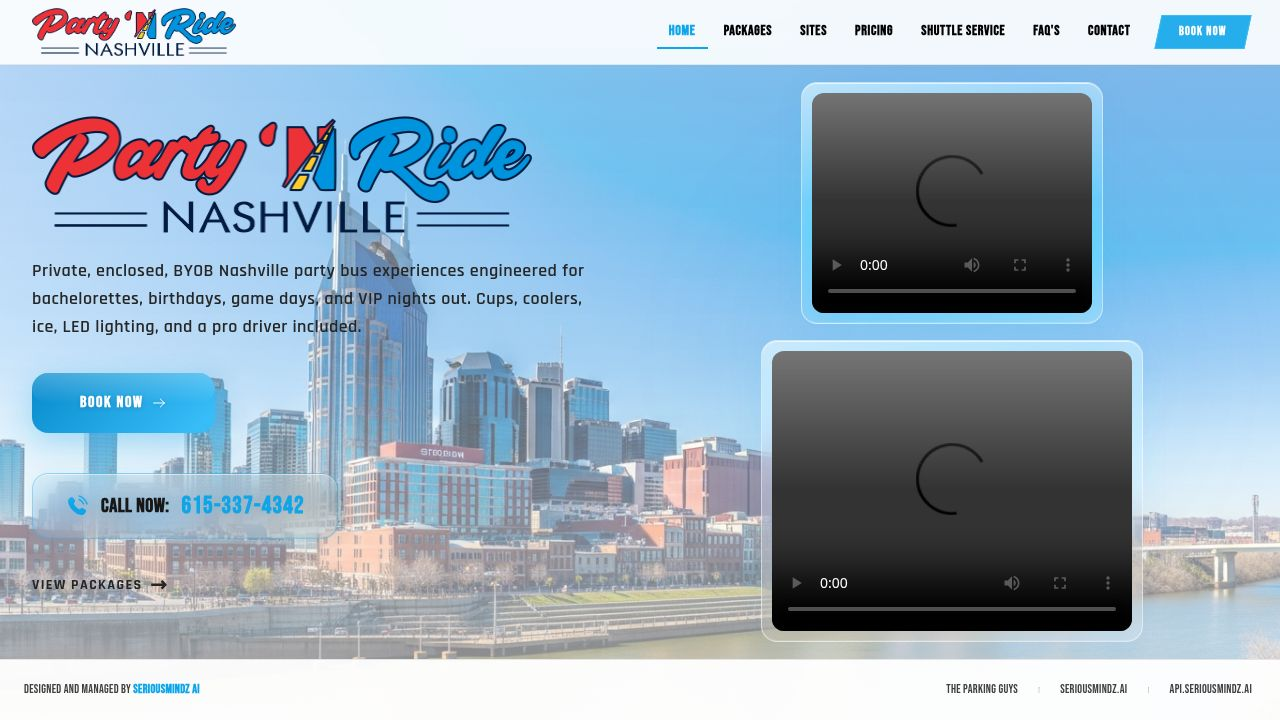
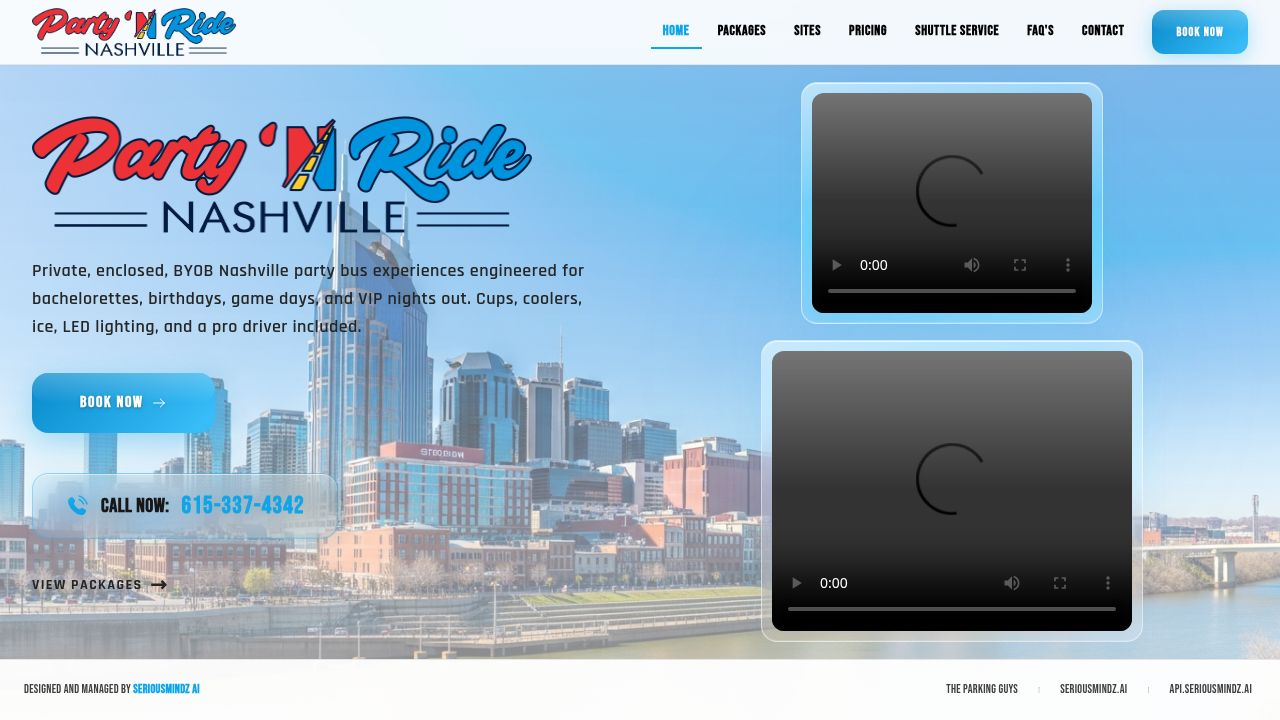
Enhance website appearance and optimize for search engines and security
Update HTML meta tags for SEO and security headers, add favicon and branding assets, and configure web manifest.

Replit-Commit-Author: Agent
Replit-Commit-Session-Id: 6c96416f-484b-418a-9b94-ff6707df3eed
Replit-Commit-Checkpoint-Type: full_checkpoint
Replit-Commit-Event-Id: efce67ea-f072-4c3e-bd1e-bd8a57e3cdf7
Replit-Commit-Screenshot-Url: https://storage.googleapis.com/screenshot-production-us-central1/6aab7b05-7e1a-461f-ac42-8b084cade9d4/6c96416f-484b-418a-9b94-ff6707df3eed/LCbP8MV
Replit-Helium-Checkpoint-Created: true

Changed region(s): [[0.5, 0.0, 1.0, 0.0917]]

diff --git a/client/index.html b/client/index.html
@@ -3,56 +3,94 @@
   <head>
     <meta charset="UTF-8" />
     <meta name="viewport" content="width=device-width, initial-scale=1.0, maximum-scale=5, user-scalable=yes" />
+    <meta http-equiv="X-UA-Compatible" content="IE=edge" />
+    <meta http-equiv="Content-Type" content="text/html; charset=utf-8" />
     <meta name="theme-color" content="#0EA5E9" />
+    <meta name="msapplication-TileColor" content="#0EA5E9" />
     <meta name="apple-mobile-web-app-capable" content="yes" />
     <meta name="apple-mobile-web-app-status-bar-style" content="black-translucent" />
+    <meta name="apple-mobile-web-app-title" content="Party N Ride" />
     <meta name="mobile-web-app-capable" content="yes" />
     <meta name="format-detection" content="telephone=yes" />
+    <meta name="application-name" content="Party 'N Ride Nashville" />
 
-    <title>Party 'N Ride Nashville - Premier Party Bus & Shuttle Service | Book Today</title>
-    <meta name="description" content="Nashville's premier enclosed party bus experience. BYOB, custom routes, LED lighting, and unforgettable rides for bachelorettes, birthdays, game days, corporate events, and more. Book your ride today! Call 615-337-4342." />
-    <meta name="keywords" content="Nashville party bus, party bus Nashville TN, bachelorette party bus Nashville, birthday party bus, game day shuttle Nashville, corporate shuttle Nashville, BYOB party bus, Nashville Broadway party bus, Nashville nightlife bus, Nashville shuttle service, enclosed party bus, Nashville event transportation, bachelor party Nashville, Nashville bus rental, party bus rental Nashville, Nashville party transportation, Nashville tour bus, Music City party bus, Nashville group transportation, Nashville brewery tour bus" />
+    <meta http-equiv="X-Content-Type-Options" content="nosniff" />
+    <meta http-equiv="X-Frame-Options" content="SAMEORIGIN" />
+    <meta name="referrer" content="strict-origin-when-cross-origin" />
+    <meta http-equiv="Permissions-Policy" content="camera=(), microphone=(), geolocation=(self)" />
+
+    <title>Party 'N Ride Nashville - #1 Party Bus & Shuttle Service | BYOB Enclosed Bus | Book Today</title>
+    <meta name="description" content="Nashville's #1 premier enclosed party bus experience. BYOB friendly, custom routes, LED lighting, Bluetooth sound, and unforgettable rides for bachelorettes, birthdays, game days, corporate events & more. Serving Nashville, TN since 2019. Call 615-337-4342 to book!" />
+    <meta name="keywords" content="Nashville party bus, party bus Nashville TN, bachelorette party bus Nashville, birthday party bus Nashville, game day shuttle Nashville, corporate shuttle Nashville, BYOB party bus, Nashville Broadway party bus, Nashville nightlife bus, Nashville shuttle service, enclosed party bus Nashville, Nashville event transportation, bachelor party Nashville, Nashville bus rental, party bus rental Nashville, Nashville party transportation, Nashville tour bus, Music City party bus, Nashville group transportation, Nashville brewery tour bus, Nashville pedal tavern alternative, Nashville party wagon, Nashville bachelorette ideas, Nashville birthday ideas, Nashville corporate event transportation, Nashville wedding shuttle, Nashville airport shuttle, Nashville Titans shuttle, Nashville Predators shuttle, Nashville concert transportation, Nashville bar crawl bus, downtown Nashville party bus, Nashville party limo bus, Nashville charter bus, Nashville mini bus rental, party bus near me Nashville, affordable party bus Nashville, luxury party bus Nashville, Nashville night out bus, Nashville guided tour bus, Nashville honky tonk tour, Nashville music tour bus, Nashville pub crawl bus, East Nashville party bus, Midtown Nashville party bus, The Gulch Nashville transportation, 12 South Nashville shuttle, SoBro Nashville party bus, Music Row Nashville tour" />
     <meta name="author" content="Party 'N Ride Nashville" />
-    <meta name="robots" content="index, follow" />
+    <meta name="robots" content="index, follow, max-image-preview:large, max-snippet:-1, max-video-preview:-1" />
+    <meta name="googlebot" content="index, follow, max-image-preview:large" />
+    <meta name="bingbot" content="index, follow" />
     <link rel="canonical" href="https://partynridenashville.com" />
+    <meta name="rating" content="general" />
+    <meta name="revisit-after" content="7 days" />
+    <meta name="distribution" content="global" />
+    <meta name="language" content="English" />
+    <meta name="copyright" content="Party 'N Ride Nashville" />
+    <meta name="category" content="Transportation, Entertainment, Party Bus, Shuttle Service" />
+    <meta name="classification" content="Business" />
+    <meta name="coverage" content="Nashville, Tennessee, United States" />
 
-    <meta property="og:title" content="Party 'N Ride Nashville - Premier Party Bus & Shuttle Service" />
-    <meta property="og:description" content="Nashville's premier enclosed party bus experience. BYOB, custom routes, LED lighting, and unforgettable rides for bachelorettes, birthdays, game days, and corporate events. Book today!" />
+    <meta property="og:title" content="Party 'N Ride Nashville - #1 Party Bus & Shuttle Service" />
+    <meta property="og:description" content="Nashville's premier enclosed party bus. BYOB friendly, custom routes, LED lighting, Bluetooth sound. Perfect for bachelorettes, birthdays, game days & corporate events. Call 615-337-4342!" />
     <meta property="og:type" content="website" />
     <meta property="og:url" content="https://partynridenashville.com" />
-    <meta property="og:image" content="/opengraph.jpg" />
-    <meta property="og:image:alt" content="Party N Ride Nashville Logo - Premier Party Bus and Shuttle Service" />
+    <meta property="og:image" content="https://partynridenashville.com/opengraph.jpg" />
+    <meta property="og:image:secure_url" content="https://partynridenashville.com/opengraph.jpg" />
+    <meta property="og:image:alt" content="Party N Ride Nashville - Premier Party Bus and Shuttle Service Logo" />
+    <meta property="og:image:type" content="image/jpeg" />
     <meta property="og:image:width" content="1200" />
     <meta property="og:image:height" content="630" />
     <meta property="og:site_name" content="Party 'N Ride Nashville" />
     <meta property="og:locale" content="en_US" />
+    <meta property="og:phone_number" content="615-337-4342" />
+    <meta property="og:street-address" content="1120 Dickerson Pike" />
+    <meta property="og:locality" content="Nashville" />
+    <meta property="og:region" content="TN" />
+    <meta property="og:postal-code" content="37208" />
+    <meta property="og:country-name" content="USA" />
 
     <meta name="twitter:card" content="summary_large_image" />
     <meta name="twitter:site" content="@replit" />
-    <meta name="twitter:title" content="Party 'N Ride Nashville - Premier Party Bus & Shuttle Service" />
+    <meta name="twitter:creator" content="@partynride" />
+    <meta name="twitter:title" content="Party 'N Ride Nashville - #1 Party Bus & Shuttle Service" />
     <meta name="twitter:description" content="Nashville's premier enclosed party bus. BYOB, custom routes, LED lighting. Bachelorettes, birthdays, game days & corporate events. Call 615-337-4342!" />
-    <meta name="twitter:image" content="/opengraph.jpg" />
+    <meta name="twitter:image" content="https://partynridenashville.com/opengraph.jpg" />
     <meta name="twitter:image:alt" content="Party N Ride Nashville - Premier Party Bus" />
 
     <meta name="geo.region" content="US-TN" />
-    <meta name="geo.placename" content="Nashville" />
+    <meta name="geo.placename" content="Nashville, Tennessee" />
     <meta name="geo.position" content="36.1878;-86.7654" />
     <meta name="ICBM" content="36.1878, -86.7654" />
 
-    <link rel="icon" type="image/png" href="/favicon.png" />
-    <link rel="apple-touch-icon" href="/favicon.png" />
+    <link rel="icon" type="image/x-icon" href="/favicon.ico" />
+    <link rel="icon" type="image/png" sizes="32x32" href="/favicon.png" />
+    <link rel="icon" type="image/png" sizes="192x192" href="/icon-192.png" />
+    <link rel="apple-touch-icon" sizes="180x180" href="/apple-touch-icon.png" />
+    <link rel="manifest" href="/site.webmanifest" />
     <link rel="preconnect" href="https://fonts.googleapis.com">
     <link rel="preconnect" href="https://fonts.gstatic.com" crossorigin>
+    <link rel="dns-prefetch" href="https://fonts.googleapis.com">
+    <link rel="dns-prefetch" href="https://code.iconify.design">
     <link href="https://fonts.googleapis.com/css2?family=Bebas+Neue&family=Rajdhani:wght@300;400;500;600;700&family=Orbitron:wght@400;500;600;700;800;900&family=Teko:wght@300;400;500;600;700&family=Anton&display=swap" rel="stylesheet">
     
     <script type="application/ld+json">
     {
       "@context": "https://schema.org",
       "@type": "LocalBusiness",
+      "@id": "https://partynridenashville.com",
       "name": "Party 'N Ride Nashville",
-      "description": "Nashville's premier enclosed party bus experience. BYOB, custom routes, and unforgettable rides.",
-      "image": "/opengraph.jpg",
+      "alternateName": "Party N Ride Nashville",
+      "description": "Nashville's #1 premier enclosed party bus experience. BYOB friendly, custom routes, LED lighting, Bluetooth sound, and unforgettable rides for bachelorettes, birthdays, game days, corporate events and more.",
+      "image": "https://partynridenashville.com/logo.png",
+      "logo": "https://partynridenashville.com/logo.png",
       "telephone": "+1-615-337-4342",
+      "email": "[email redacted]",
       "address": {
         "@type": "PostalAddress",
         "streetAddress": "1120 Dickerson Pike",
@@ -61,11 +99,94 @@
         "postalCode": "37208",
         "addressCountry": "US"
       },
+      "geo": {
+        "@type": "GeoCoordinates",
+        "latitude": 36.1878,
+        "longitude": -86.7654
+      },
       "url": "https://partynridenashville.com",
       "priceRange": "$$",
+      "currenciesAccepted": "USD",
+      "paymentAccepted": "Cash, Credit Card, Debit Card",
       "openingHours": "Mo-Su 09:00-23:00",
-      "areaServed": "Nashville, TN",
-      "serviceType": ["Party Bus Rental", "Shuttle Service", "Event Transportation", "Group Transportation"]
+      "areaServed": {
+        "@type": "City",
+        "name": "Nashville",
+        "addressRegion": "TN"
+      },
+      "serviceType": ["Party Bus Rental", "Shuttle Service", "Event Transportation", "Group Transportation", "Bachelorette Party Bus", "Birthday Party Bus", "Corporate Shuttle", "Game Day Shuttle", "Wedding Shuttle", "Bar Crawl Bus", "Nashville Tour Bus"],
+      "hasOfferCatalog": {
+        "@type": "OfferCatalog",
+        "name": "Party Bus Packages",
+        "itemListElement": [
+          {
+            "@type": "Offer",
+            "name": "Bachelorette Bash",
+            "description": "2-hour private party bus for up to 20 guests",
+            "price": "495",
+            "priceCurrency": "USD"
+          },
+          {
+            "@type": "Offer",
+            "name": "Broadway Birthday",
+            "description": "2-hour rolling nightclub with custom playlist",
+            "price": "475",
+            "priceCurrency": "USD"
+          },
+          {
+            "@type": "Offer",
+            "name": "Game Day Tailgate",
+            "description": "3-hour Titans or Preds pre-game party bus",
+            "price": "695",
+            "priceCurrency": "USD"
+          }
+        ]
+      },
+      "sameAs": []
+    }
+    </script>
+
+    <script type="application/ld+json">
+    {
+      "@context": "https://schema.org",
+      "@type": "WebSite",
+      "name": "Party 'N Ride Nashville",
+      "url": "https://partynridenashville.com",
+      "potentialAction": {
+        "@type": "SearchAction",
+        "target": "https://partynridenashville.com/?q={search_term_string}",
+        "query-input": "required name=search_term_string"
+      }
+    }
+    </script>
+
+    <script type="application/ld+json">
+    {
+      "@context": "https://schema.org",
+      "@type": "BreadcrumbList",
+      "itemListElement": [
+        { "@type": "ListItem", "position": 1, "name": "Home", "item": "https://partynridenashville.com/" },
+        { "@type": "ListItem", "position": 2, "name": "Packages", "item": "https://partynridenashville.com/packages" },
+        { "@type": "ListItem", "position": 3, "name": "Nashville Sites", "item": "https://partynridenashville.com/sites" },
+        { "@type": "ListItem", "position": 4, "name": "Pricing", "item": "https://partynridenashville.com/pricing" },
+        { "@type": "ListItem", "position": 5, "name": "Shuttle Service", "item": "https://partynridenashville.com/shuttle" },
+        { "@type": "ListItem", "position": 6, "name": "FAQ", "item": "https://partynridenashville.com/faq" },
+        { "@type": "ListItem", "position": 7, "name": "Contact", "item": "https://partynridenashville.com/contact" }
+      ]
+    }
+    </script>
+
+    <script type="application/ld+json">
+    {
+      "@context": "https://schema.org",
+      "@type": "FAQPage",
+      "mainEntity": [
+        { "@type": "Question", "name": "Is there a bathroom on the party bus?", "acceptedAnswer": { "@type": "Answer", "text": "No, 1 hour into ride there is a stop for a bathroom break." } },
+        { "@type": "Question", "name": "Can we extend our party time longer than pre-booked?", "acceptedAnswer": { "@type": "Answer", "text": "Yes, additional time can be added dependent on availability." } },
+        { "@type": "Question", "name": "Is BYOB allowed on the party bus?", "acceptedAnswer": { "@type": "Answer", "text": "Yes, bring your own beverages. No glass, all beverages must meet allowed guidelines." } },
+        { "@type": "Question", "name": "Are ice and cups provided?", "acceptedAnswer": { "@type": "Answer", "text": "Yes, plain cups, ice and custom-built wet bars for safe storage of beverages." } },
+        { "@type": "Question", "name": "What is the cancellation policy?", "acceptedAnswer": { "@type": "Answer", "text": "Reservations have to be cancelled more than 14 days prior to scheduled booking. Payment will be refunded minus a 25% non-refundable deposit." } }
+      ]
     }
     </script>
 

diff --git a/server/routes.ts b/server/routes.ts
@@ -8,6 +8,16 @@ export async function registerRoutes(
   httpServer: Server,
   app: Express
 ): Promise<Server> {
+  app.use((req, res, next) => {
+    res.setHeader("X-Content-Type-Options", "nosniff");
+    res.setHeader("X-Frame-Options", "SAMEORIGIN");
+    res.setHeader("X-XSS-Protection", "1; mode=block");
+    res.setHeader("Referrer-Policy", "strict-origin-when-cross-origin");
+    res.setHeader("Permissions-Policy", "camera=(), microphone=(), geolocation=(self)");
+    res.setHeader("Strict-Transport-Security", "max-age=31536000; includeSubDomains");
+    next();
+  });
+
   app.post("/api/bookings", async (req, res) => {
     try {
       const data = insertBookingSchema.parse(req.body);